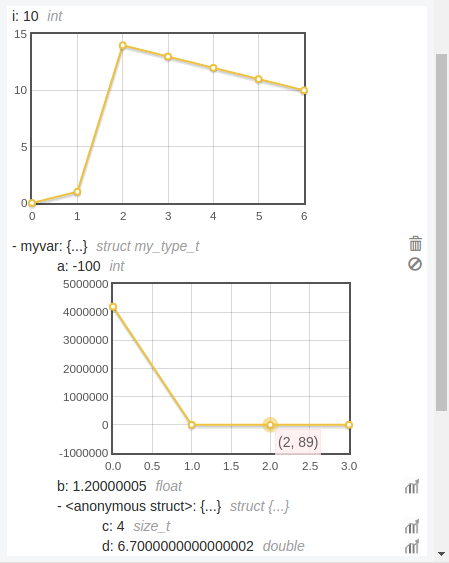
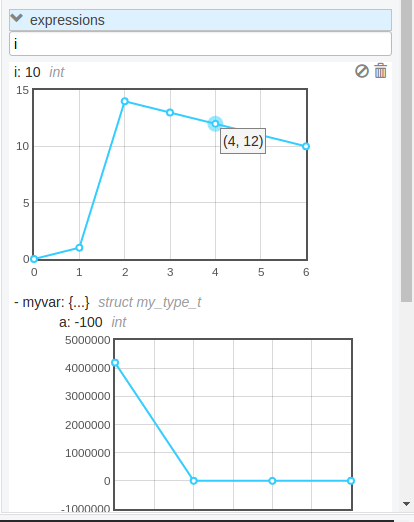
remove docs; improve plot styling

diff --git a/gdbgui/static/js/gdbgui.js b/gdbgui/static/js/gdbgui.js
@@ -2183,7 +2183,9 @@ const Expressions = {
         // make the plot
         $.plot(jq,
             [
-                {data: data}
+                {data: data,
+                shadowSize: 0,
+                color: '#33cdff'}
             ],
             {
                 series: {

diff --git a/gdbgui/static/css/gdbgui.css b/gdbgui/static/css/gdbgui.css
@@ -271,10 +271,10 @@ ul.variable{
 }
 #tooltip{
   position: fixed;
-  border: 1px solid #fdd;
+  display: none;
+  border: 1px solid #828282;
   padding: 2px;
-  background-color: #fee;
-  opacity: 0.80;
+  background-color: #f5f5f5;
 }
 #threads ul{
   list-style: none;
